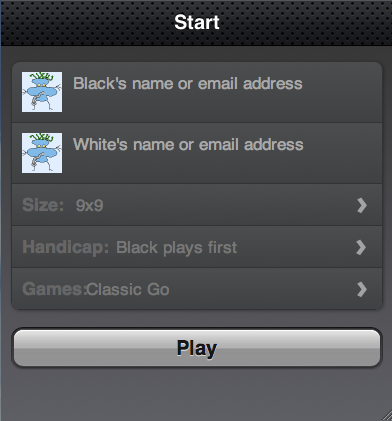
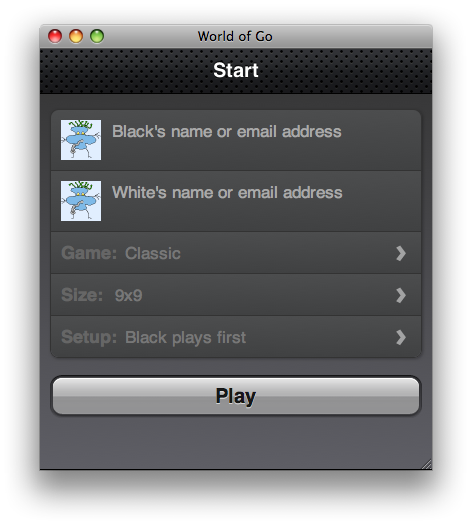
Updated docs and a Shape Go fix

diff --git a/j/referee.js b/j/referee.js
@@ -1738,7 +1738,7 @@
 							pie: false
 						},
 						{
-							text: "Two Stones",
+							text: "Two stone handicap",
 							to_play: "white",
 							setup: star_points(2),
 							free_plays: 0,
@@ -1746,7 +1746,7 @@
 							pie: false
 						},
 						{
-							text: "Three Stones",
+							text: "Three stone handicap",
 							to_play: "white",
 							setup: star_points(3),
 							HA: 3,
@@ -1754,7 +1754,7 @@
 							pie: false
 						},
 						{
-							text: "Four Stones",
+							text: "Four stone handicap",
 							to_play: "white",
 							setup: star_points(4),
 							HA: 4,
@@ -1762,7 +1762,7 @@
 							pie: false
 						},
 						{
-							text: "Five Stones",
+							text: "Five stone handicap",
 							to_play: "white",
 							setup: star_points(5),
 							HA: 5,
@@ -1770,7 +1770,7 @@
 							pie: false
 						},
 						{
-							text: "Six Stones",
+							text: "Six stone handicap",
 							to_play: "white",
 							setup: star_points(6),
 							HA: 6,
@@ -1778,7 +1778,7 @@
 							pie: false
 						},
 						{
-							text: "Seven Stones",
+							text: "Seven stone handicap",
 							to_play: "black",
 							setup: star_points(7),
 							HA: 7,
@@ -1786,7 +1786,7 @@
 							pie: false
 						},
 						{
-							text: "Eight Stones",
+							text: "Eight stone handicap",
 							to_play: "white",
 							setup: star_points(8),
 							HA: 8,
@@ -1794,7 +1794,7 @@
 							pie: false
 						},
 						{
-							text: "Nine Stones",
+							text: "Nine stone handicap",
 							to_play: "white",
 							setup: star_points(9),
 							HA: 9,
@@ -1827,35 +1827,35 @@
 							pie: false
 						},
 						{
-							text: "Two Stones",
+							text: "Two stone handicap",
 							to_play: "white",
 							setup: random_points(5,3),
 							free_plays: 0,
 							pie: false
 						},
 						{
-							text: "Three Stones",
+							text: "Three stone handicap",
 							to_play: "white",
 							setup: random_points(6,3),
 							free_plays: 0,
 							pie: false
 						},
 						{
-							text: "Four Stones",
+							text: "Four stone handicap",
 							to_play: "white",
 							setup: random_points(7,3),
 							free_plays: 0,
 							pie: false
 						},
 						{
-							text: "Five Stones",
+							text: "Five stone handicap",
 							to_play: "white",
 							setup: random_points(8,3),
 							free_plays: 0,
 							pie: false
 						},
 						{
-							text: "Six Stones",
+							text: "Six stone handicap",
 							to_play: "white",
 							setup: random_points(5,3),
 							free_plays: 0,
@@ -1891,8 +1891,8 @@
 						},
 						{
 							text: "Shape Game",
-							to_play: "box",
-							setup: corner,
+							to_play: "white",
+							setup: box,
 							free_plays: 0,
 							pie: false
 						},

diff --git a/index.html b/index.html
@@ -4,6 +4,7 @@
 <!DOCTYPE html PUBLIC "-//W3C//DTD XHTML 1.0 Strict//EN" "http://www.w3.org/TR/xhtml1/DTD/xhtml1-strict.dtd">
 <html lang='en' xml:lang='en' xmlns='http://www.w3.org/1999/xhtml'>
   <head>
+    <title>World of Go</title>
     <meta content='black' name='apple-mobile-web-app-status-bar-style' />
     <meta content='user-scalable=no, width=device-width, initial-scale=1.0, maximum-scale=1.0' name='viewport' />
     <!-- / their stuff -->

diff --git a/readme.md b/readme.md
@@ -48,9 +48,28 @@ The application is specifically written to support other games, most of which ar
 * [One Eyed Go][oneeye]: In this game, suicide is never allowed, even if your play would otherwise capture stones. One consequence of this simplification of the rules is that a single eye is enough to make a group safe.
 * [Atari Go][atari]: This game uses normal rules, however the winner is the first to capture an opponent's stone. Obviously, there are no Kos or snapbacks. There are other positional implications.
 * [Gonnect][gonnect]: In this game, the winner is the first to connect either pair of opposite sides of the board with a single group.
-* [Wild Fuskeki][wild]: This is a standard game, however the first three moves are randomly chosen for each player. Black can have up to six randomly placed handicap stones. Initial positions will never include dead stones, ataris, or stones placed in either of the two edge rows or columns.
-* **White to Live**: Several variations on a theme of giving black an overwhelming advantage and white playing to make a safe group. Black wins by eliminating all of white's stones. [Corner Go][corner] gives black the first row and column. To forestall futile thought experiments, these stones are unkillable. This is corner invasion exercise. Larger boards give white a larger advantage, the reverse of the usual handicap style. The [Shape Game][shape] gives Black unkillable stones on the first row and column all the way around the board. Probably best on larger boards.
-* **Unusual Setups**: A few other ways to set up the initial board, including [Influence Go][influence], where each player gets two opposing edges of the board, and [Dots Go][dots], where the initial position consists of stones on alternate intersections of the board. In all unusual setup games, the normal rules of Go apply and any stone can be captured.
+
+Some of the games feature unique starting positions:
+
+[Wild Fuskeki][wild]: This is a standard game, however the first three moves are randomly chosen for each player. Black can have up to six randomly placed handicap stones. Initial positions will never include dead stones, ataris, or stones placed in either of the two edge rows or columns.
+
+![Wild Fuseki][iwild]
+
+**White to Live**: Several variations on a theme of giving black an overwhelming advantage and white playing to make a safe group. Black wins by eliminating all of white's stones. [Corner Go][corner] is a corner invasion exercise: Only one corner is available to White.
+
+![Corner Go][icorner]
+
+[Shape Go][shape] gives Black unkillable stones on the first row and column all the way around the board, and white has to try to make life with no corners or edges. Probably best on larger boards.
+
+![Shape Go][ibox]
+
+**Unusual Setups**: A few other variations have standard rules and scoring, but different ways to set up the initial board. [Influence Go][influence]gives each player gets two opposing edges of the board.
+
+![Influence Go][iinfluence]
+
+[Dots Go][dots] consists of stones on alternate intersections of the board.
+
+![Dots Go][idots]
 
 Note: The application does not attempt to score games that are won on the basis of territory, nor does it adjudicate games that end with two passes. It's up to you to decide who won and by how much.
 
@@ -78,3 +97,8 @@ Exemptions include iGesture and Dragscrollable.
 [shape]: http://senseis.xmp.net/?ShapeGameSolid
 [influence]: http://senseis.xmp.net/?InfluenceGo
 [dots]: http://senseis.xmp.net/?DotsGo
+[ibox]: http://raganwald.github.com/go/i/about/box.png
+[idots]: http://raganwald.github.com/go/i/about/dots.png
+[iinfluence]: http://raganwald.github.com/go/i/about/influence.png
+[icorner]: http://raganwald.github.com/go/i/about/corner.png
+[iwild]: http://raganwald.github.com/go/i/about/wild.png
